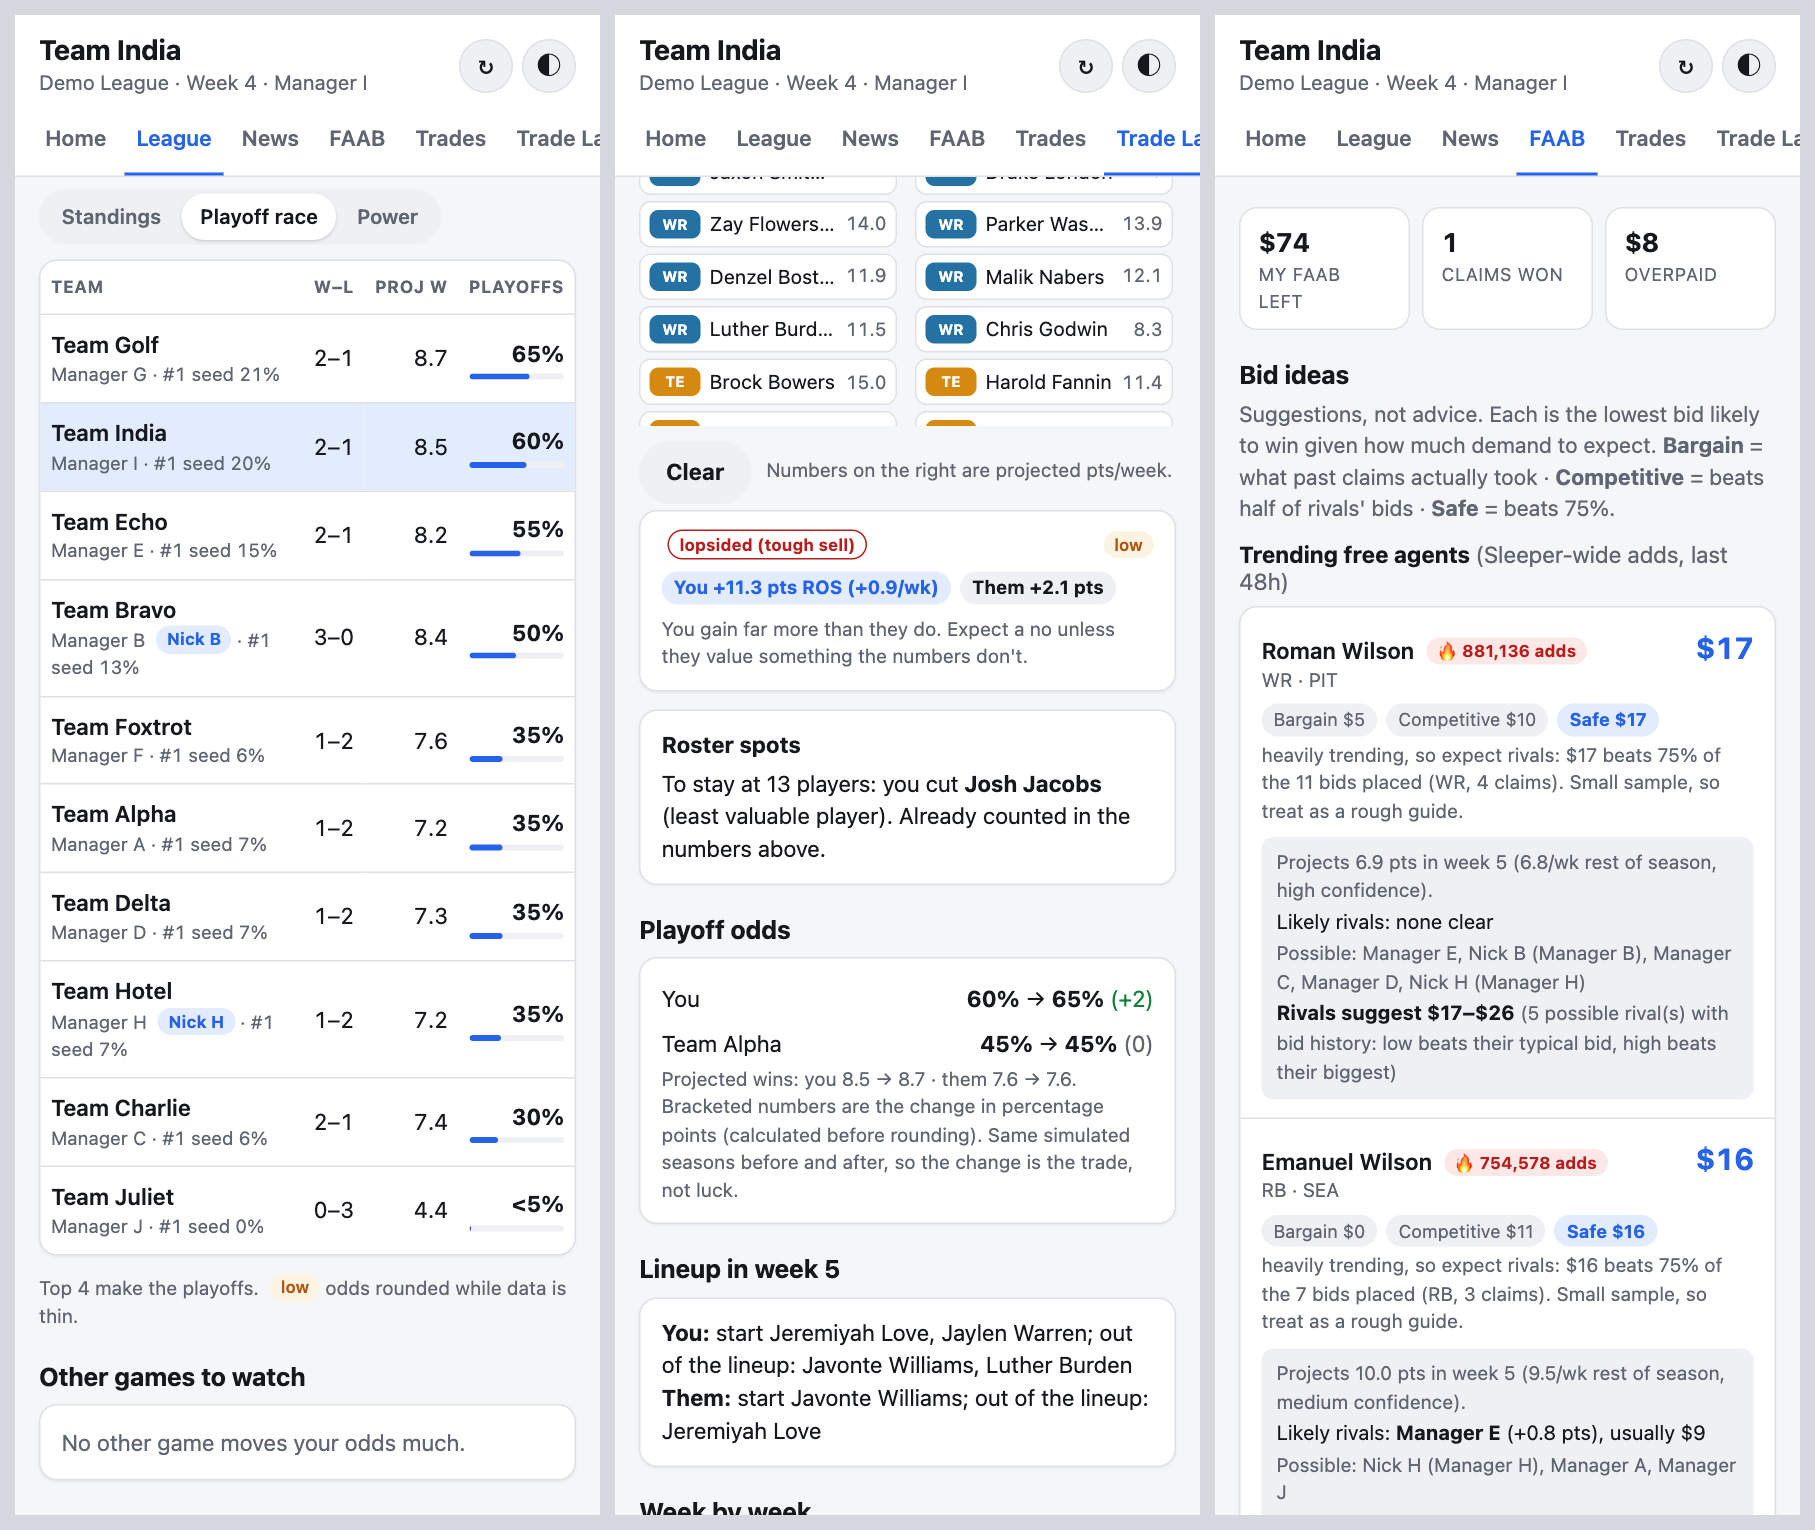
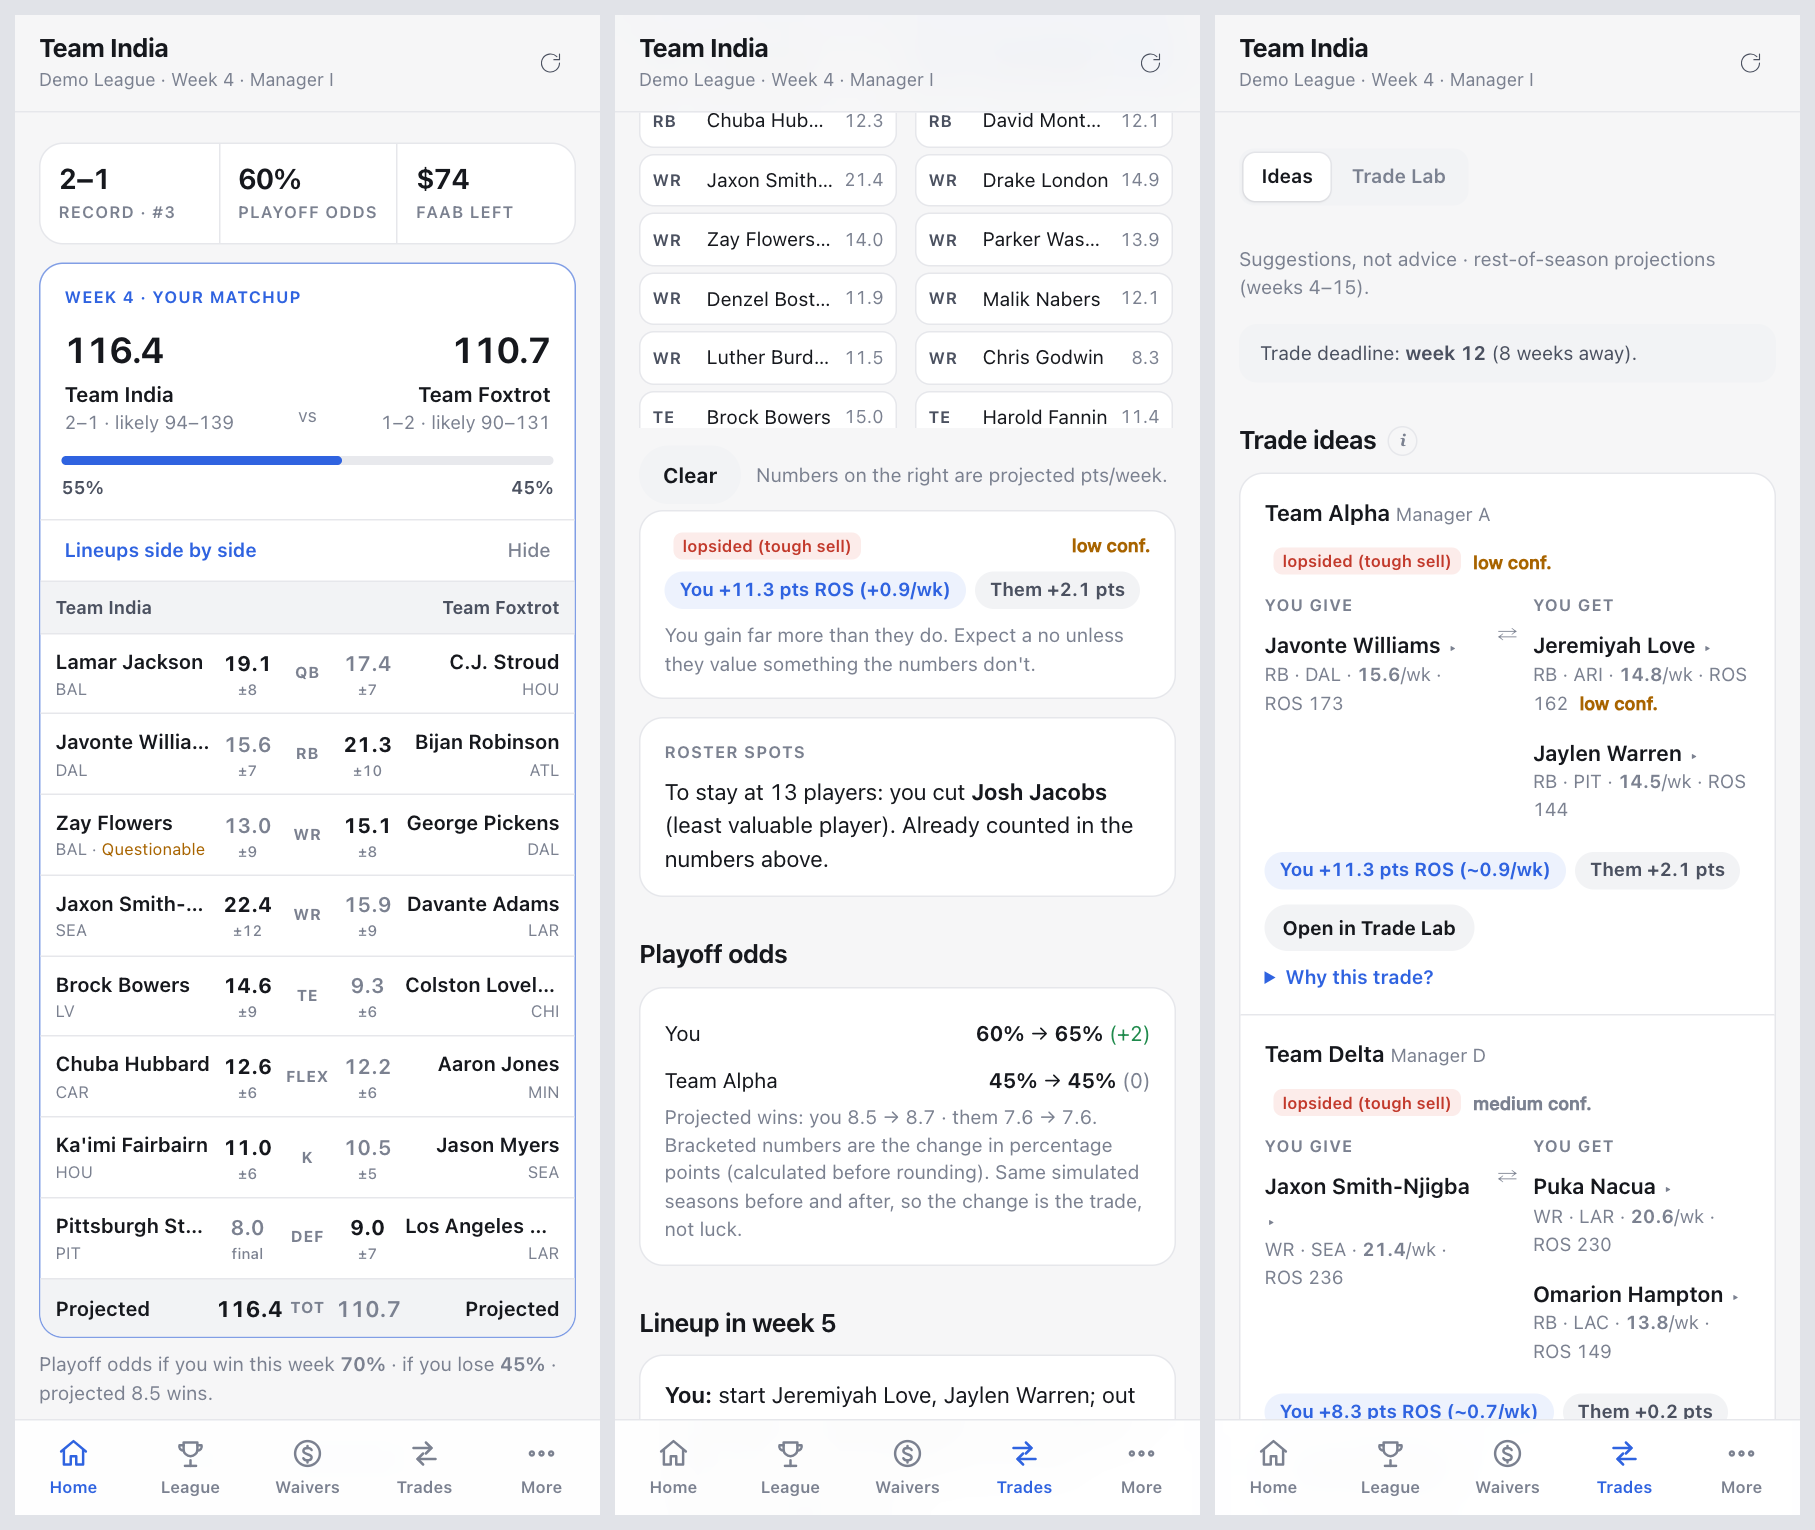
Document the design system and navigation; refresh screenshots

diff --git a/README.md b/README.md
@@ -8,7 +8,9 @@ start/sit calls, playoff odds, FAAB bid ideas and rival bidders, trade ideas, an
 injury and opportunity scanner. It also writes a short verified brief to paste into an
 AI assistant.
 
-Free to run: public APIs only, no keys, no paid services.
+Free to run: public APIs only, no keys, no paid services. A clean, calm mobile design with a
+bottom tab bar (Home · League · Waivers · Trades · More), automatic dark mode and installable
+as a phone app.
 
 ![Dark mode: home, league, trades](docs/screenshots/overview-dark.png)
 ![Light mode: playoff race, trade lab, FAAB](docs/screenshots/overview-light.png)
@@ -19,14 +21,14 @@ Free to run: public APIs only, no keys, no paid services.
 
 | Tab | What you get |
 |---|---|
-| **Home** | Everything about you: this week's matchup with projected scores and win chance, playoff odds with a trend line, if-you-win / if-you-lose odds, alerts, then a toggle for **Roster** (last 3 vs next 3 weeks per player, tap for details), **Start/sit** and **Weekly lineups** (byes included), plus your key games. |
+| **Home** | Everything about you: this week's matchup with projected scores, win chance and both lineups side by side, playoff odds with a trend line, if-you-win / if-you-lose odds, alerts, then a toggle for **Roster** (last 3 vs next 3 weeks per player, tap for details), **Start/sit** and **Weekly lineups** (byes included), plus your key games. |
 | **League** | A toggle for **Standings** (with all-play record and luck; tap a team to see its roster), **Playoff race** (odds from 10,000 simulated seasons, trend, other games to watch) and **Power** rankings; a weekly scores chart (each week vs the league median); and all of this week's matchups. |
-| **News** | Only what changed since the last run: injuries, depth chart promotions, team changes and fresh drops, split into *my players*, *other teams' starters* (trade openings) and *free agents worth a look* (with bid ideas and likely rival bidders). |
-| **FAAB** | Bid ideas at three levels (bargain / competitive / safe), likely rivals with a bid-to-win range, manager tendencies (style, positions chased, overpaying, budget), a full waiver log with runner-up bids, and market prices. |
-| **Trades** | Rest-of-season player values with range and confidence, value over replacement, mutual-benefit trade ideas with reasoning, buy-low / sell-high, and team strength vs the league median with a toggle: season so far (actual started lineups and lineup efficiency), projected, and a trade-partner snapshot (needs, playoff odds, trades made). Trade deadline countdown. Tap any player for the same details as the roster cards. |
-| **Trade Lab** | Build any trade with any team and get a full breakdown: rest-of-season gain for both sides, playoff odds before → after, week-by-week impact (byes included), lineup changes, positional strength, and the players' details. Runs in the browser, instantly. |
-| **Planner** | Forecast any remaining week: swap bench players in, see your projected score vs the best possible and your win chance, and plan waiver pickups (with drops) to see the week-by-week, rest-of-season and playoff-odds impact. Saved on your device. |
-| **Brief** | `claude_brief.md`: a compact verified summary with a one-tap Copy button. |
+| **Waivers → News** | Only what changed since the last run: injuries, depth chart promotions, team changes and fresh drops, split into *my players*, *other teams' starters* (trade openings) and *free agents worth a look* (with bid ideas and likely rival bidders). |
+| **Waivers → Bids & FAAB** | Bid ideas at three levels (bargain / competitive / safe), likely rivals with a bid-to-win range, manager tendencies (style, positions chased, overpaying, budget), a full waiver log with runner-up bids, and market prices. |
+| **Trades → Ideas** | Rest-of-season player values with range and confidence, value over replacement, mutual-benefit trade ideas with reasoning, buy-low / sell-high, and team strength vs the league median with a toggle: season so far (actual started lineups and lineup efficiency), projected, and a trade-partner snapshot (needs, playoff odds, trades made). Trade deadline countdown. Tap any player for the same details as the roster cards. |
+| **Trades → Trade Lab** | Build any trade with any team and get a full breakdown: rest-of-season gain for both sides, playoff odds before → after, week-by-week impact (byes included), lineup changes, positional strength, and the players' details. Runs in the browser, instantly. |
+| **More → Planner** | Forecast any remaining week: swap bench players in, see your projected score vs the best possible and your win chance, and plan waiver pickups (with drops) to see the week-by-week, rest-of-season and playoff-odds impact. Saved on your device. |
+| **More → Brief** | `claude_brief.md`: a compact verified summary with a one-tap Copy button. |
 
 ## Use it with your league
 

diff --git a/AGENTS.md b/AGENTS.md
@@ -159,6 +159,19 @@ On the Trades tab, `playerExpand()` renders the same details: trade-idea and buy
 sell-high / buy-low rows are `<details>`; value-table rows (`.tp-row`) insert a
 `tr.detail-row`. Handled by one delegated listener (`wireTradeDetails`).
 
+## Design system and navigation
+
+`site/styles.css` is a small "clean & calm" system: neutral greys + one accent (`--accent`);
+colour only carries status (`--good/--warn/--bad`, injuries, up/down) and the diverging
+chart pair. Spacing 4/8/12/16/24/32; type 11 label / 13 small / 15 body / 17 title / 28 hero;
+flat cards (no nested borders), quiet position labels, small chips. Navigation: five sections
+in a bottom bar (floating pill on wide screens) defined in `SECTIONS` (app.js); sections with
+several panels show a segmented sub-nav (`#subnav`). Hashes are panel ids (#faab, #lab …) and
+`hashchange` is handled. Any `<p class="lead-text">` directly after an `<h2>` is turned into
+an ⓘ toggle by `tidyExplanations()` (MutationObserver), so keep explanations in that shape.
+Theme (Auto / Light / Dark) lives in More → Settings. Matchup cards include a side-by-side
+lineup (`sideBySide`) for every matchup.
+
 ## Home and League tabs
 
 Tabs: Home · League · News · FAAB · Trades · Trade Lab · Planner · Brief (old #team /
